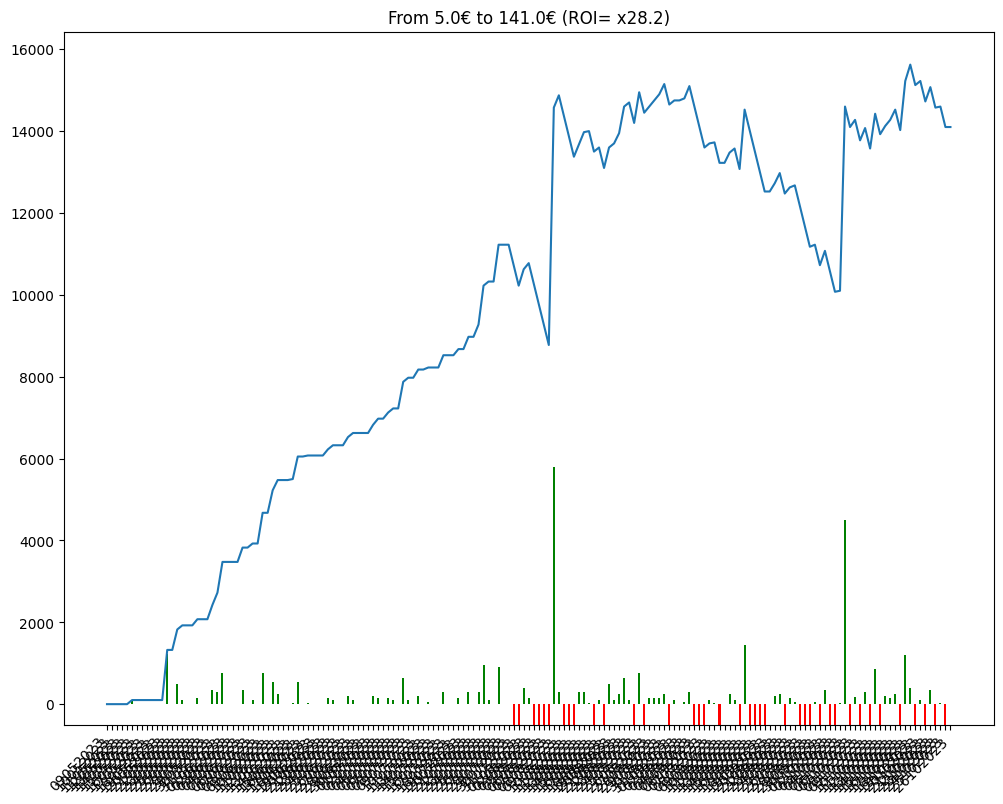
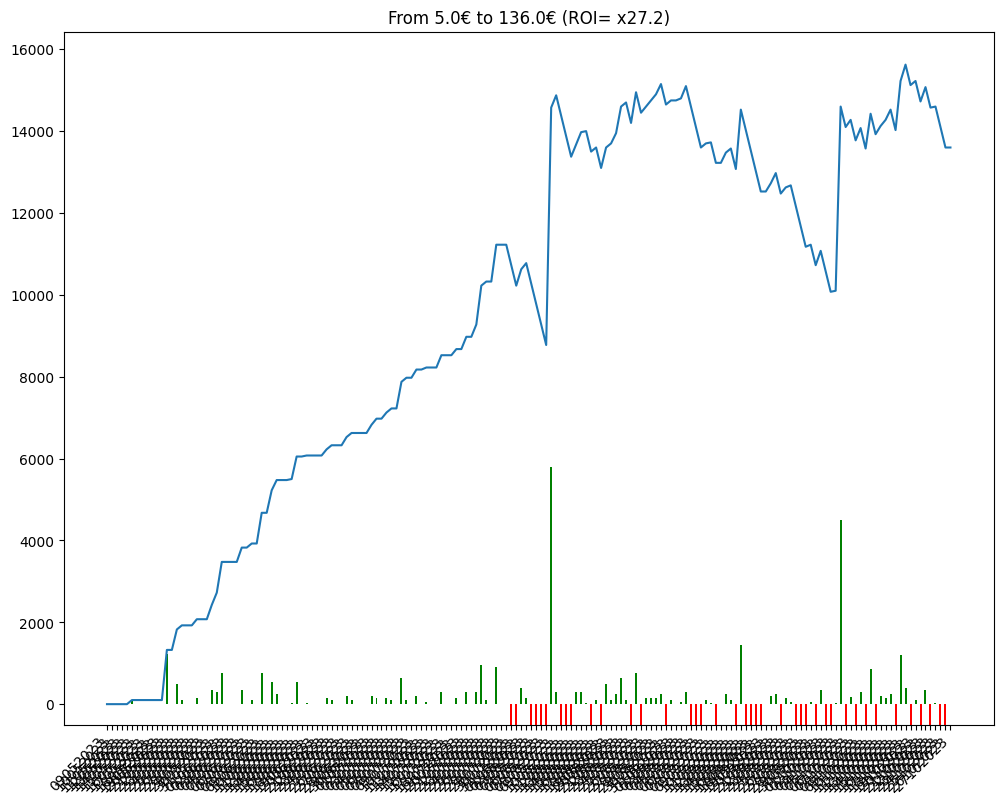
comment from python script

diff --git a/bethistory.html b/bethistory.html
@@ -86,7 +86,8 @@
             En observant la courbe 🤔, on peut avoir une idée visuelle de l'évolution des gains et ainsi évaluer le model utilisé 🧑🏫.
         </p>
         
-        <img src = "/candle.png" alt="candle chart"/><table><tr><td>Chevaux joués</td><td>Gains</td><td>URL Circuits</td></tr><tr><td>1 - ALIJAN MOON</td><td>0</td><td><a href=https://www.pmu.fr/turf/26102023/r1/c2 target="_blank">https://www.pmu.fr/turf/26102023/r1/c2</a></td></tr>
+        <img src = "/candle.png" alt="candle chart"/><table><tr><td>Chevaux joués</td><td>Gains</td><td>URL Circuits</td></tr><tr><td>4 - PICANES</td><td>0</td><td><a href=https://www.pmu.fr/turf/27102023/r3/c5 target="_blank">https://www.pmu.fr/turf/27102023/r3/c5</a></td></tr>
+<tr><td>1 - ALIJAN MOON</td><td>-500</td><td><a href=https://www.pmu.fr/turf/26102023/r1/c2 target="_blank">https://www.pmu.fr/turf/26102023/r1/c2</a></td></tr>
 <tr><td>8 - BLANCO CHOP</td><td>-500</td><td><a href=https://www.pmu.fr/turf/25102023/r3/c2 target="_blank">https://www.pmu.fr/turf/25102023/r3/c2</a></td></tr>
 <tr><td>1 - MARZOUK</td><td>+25</td><td><a href=https://www.pmu.fr/turf/24102023/r3/c1 target="_blank">https://www.pmu.fr/turf/24102023/r3/c1</a></td></tr>
 <tr><td>2 - JUGANDO</td><td>-500</td><td><a href=https://www.pmu.fr/turf/23102023/r1/c2 target="_blank">https://www.pmu.fr/turf/23102023/r1/c2</a></td></tr>
